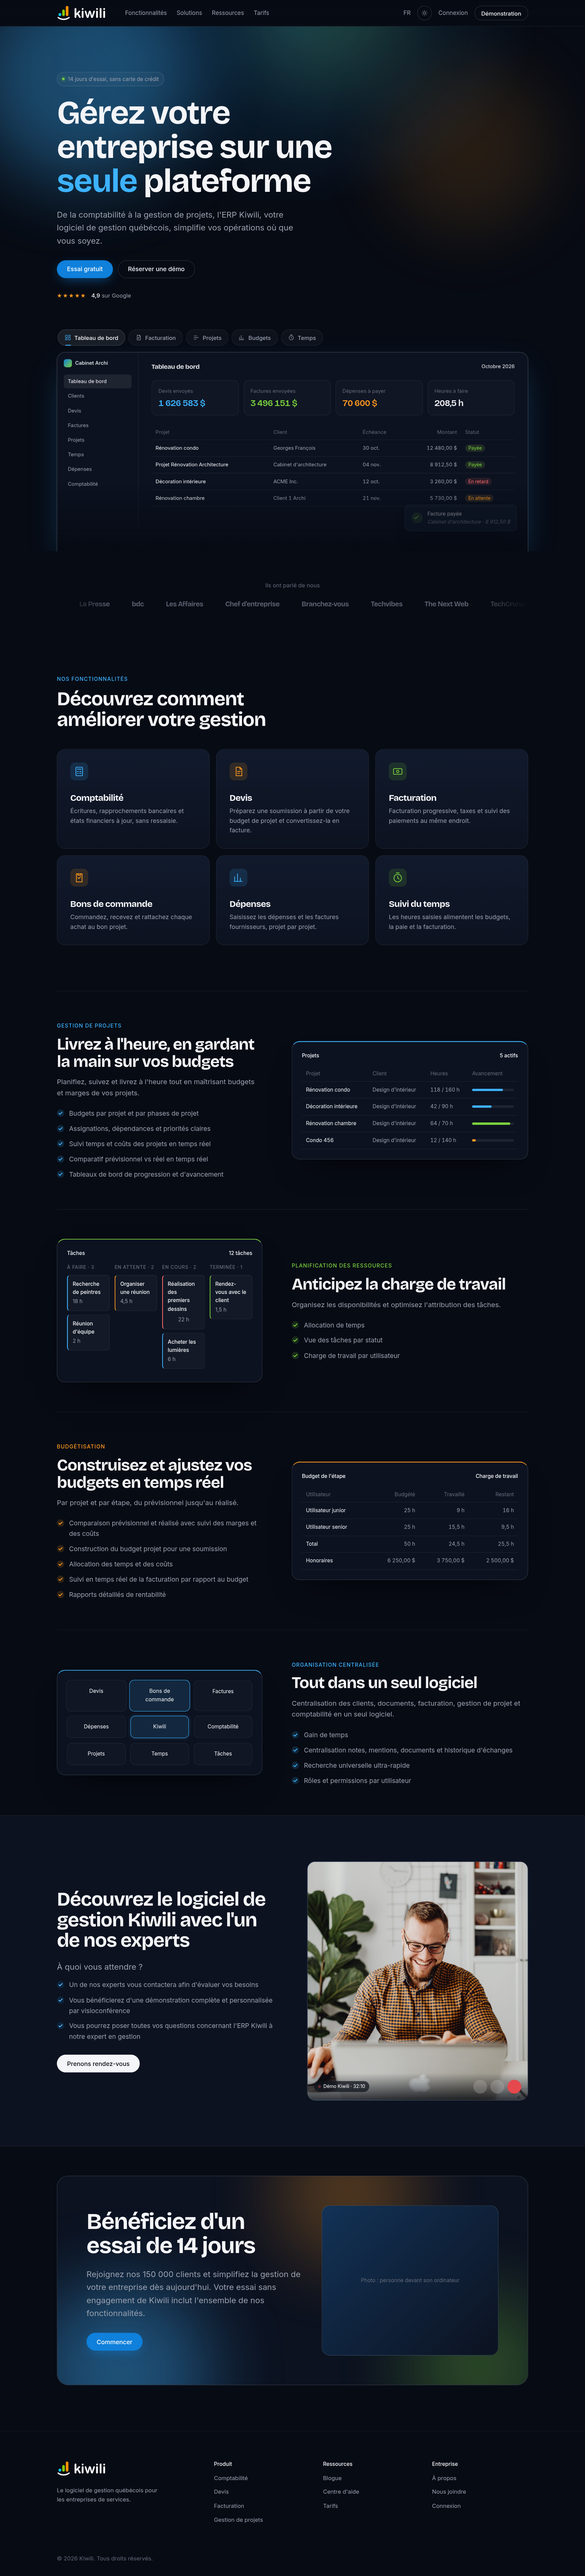
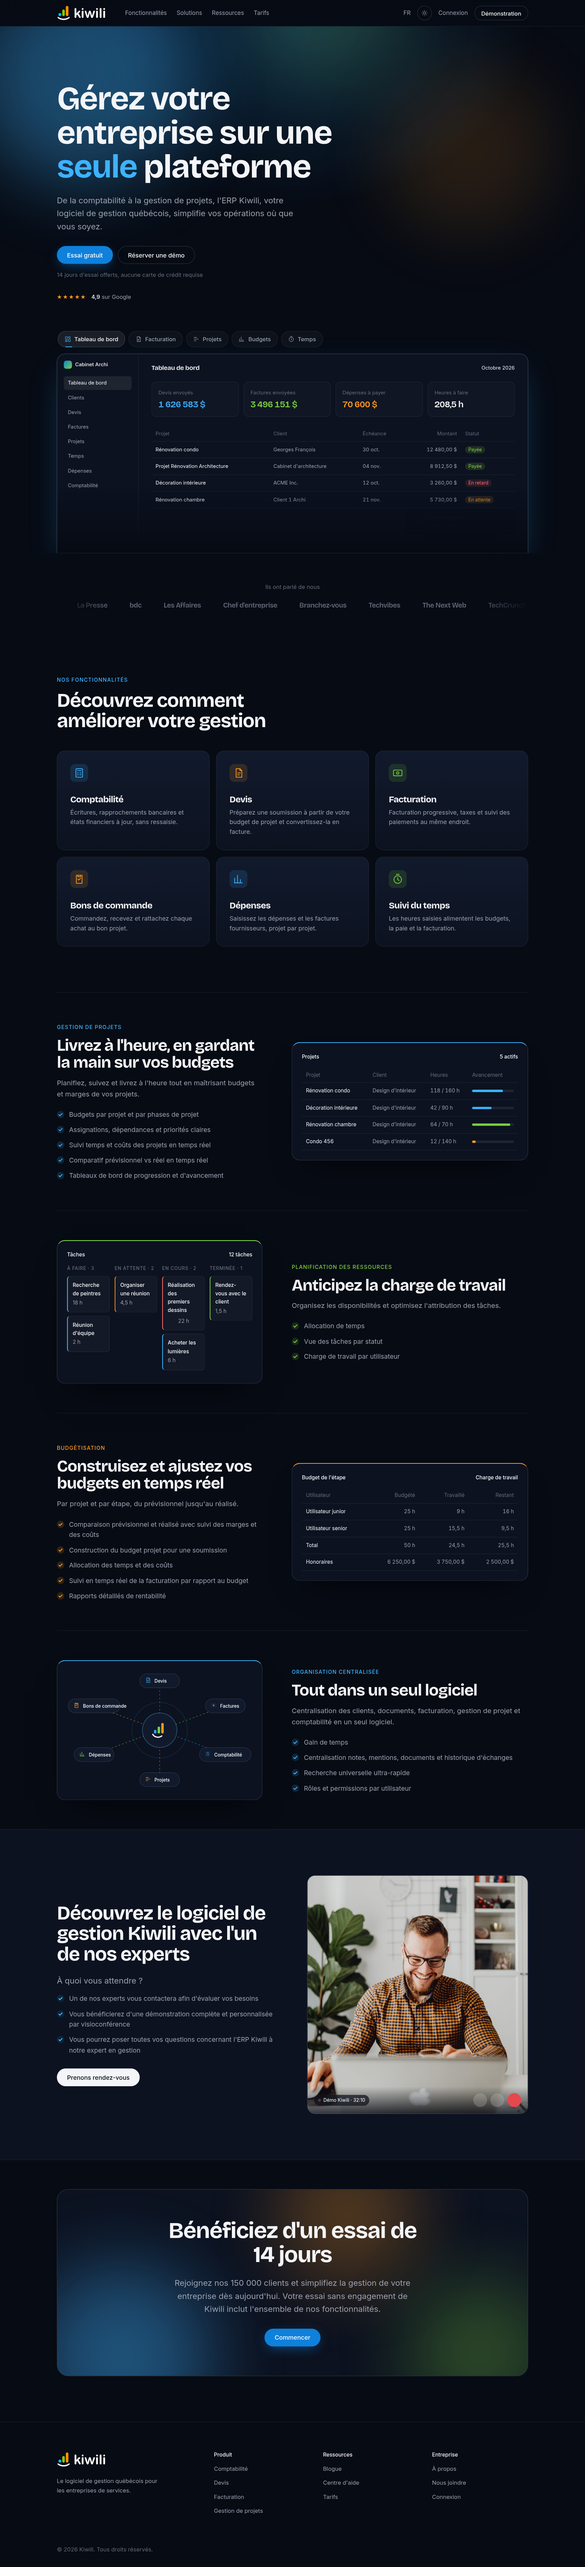
Remove hero pill and trial photo, redraw centralisation as connected diagram
Claude-Session: https://claude.ai/code/session_01VdQgcpu26zkJBaefp5NmKK

diff --git a/index.html b/index.html
@@ -23,10 +23,10 @@
 <main>
 <section class="hero"><div class="blobs" aria-hidden="true"><i class="b1"></i><i class="b2"></i><i class="b3"></i></div><div class="container">
   <div class="hero-copy rise">
-    <span class="chip"><i></i>14 jours d'essai, sans carte de crédit</span>
     <h1>Gérez votre entreprise sur une <em>seule</em> plateforme</h1>
     <p class="lead">De la comptabilité à la gestion de projets, l'ERP Kiwili, votre logiciel de gestion québécois, simplifie vos opérations où que vous soyez.</p>
     <div class="hero-cta"><a class="btn btn-accent" href="#essai">Essai gratuit</a><a class="btn btn-ghost" href="#demo">Réserver une démo</a></div>
+    <p class="hero-note">14 jours d'essai offerts, aucune carte de crédit requise</p>
     <div class="rating"><span class="stars" aria-hidden="true">★★★★★</span><span><b>4,9</b> sur Google</span></div>
   </div>
 
@@ -219,11 +219,11 @@
       <p class="lead">Centralisation des clients, documents, facturation, gestion de projet et comptabilité en un seul logiciel.</p>
       <ul class="checks"><li>Gain de temps</li><li>Centralisation notes, mentions, documents et historique d'échanges</li><li>Recherche universelle ultra-rapide</li><li>Rôles et permissions par utilisateur</li></ul>
     </div>
-    <div class="panel reveal"><div class="hub">
-      <div>Devis</div><div>Bons de commande</div><div>Factures</div>
-      <div>Dépenses</div><div class="core">Kiwili</div><div>Comptabilité</div>
-      <div>Projets</div><div>Temps</div><div>Tâches</div>
-    </div></div>
+    <div class="panel reveal hubpanel"><svg class="hubsvg" viewBox="0 0 520 340" role="img" aria-label="Devis, factures, comptabilité, projets, dépenses et bons de commande reliés au même logiciel Kiwili">
+<circle class="ring r1" cx="260" cy="170" r="46"/><circle class="ring r2" cx="260" cy="170" r="46"/>
+<path class="wire" style="--c:var(--c-blue);--d:0.0s" d="M260 36L260 170"/><path class="wire" style="--c:var(--c-green);--d:0.5s" d="M438 104L260 170"/><path class="wire" style="--c:var(--c-blue);--d:1.0s" d="M438 236L260 170"/><path class="wire" style="--c:var(--c-orange);--d:1.5s" d="M260 304L260 170"/><path class="wire" style="--c:var(--c-green);--d:2.0s" d="M82 236L260 170"/><path class="wire" style="--c:var(--c-orange);--d:2.5s" d="M82 104L260 170"/>
+<g class="core"><circle cx="260" cy="170" r="46"/><g transform="translate(238 147) scale(1.1)"><rect x="6" y="20" width="6" height="9" rx="3" fill="#2aa7ff"/><rect x="15" y="12" width="6" height="17" rx="3" fill="#7ad03c"/><rect x="24" y="3" width="6" height="26" rx="3" fill="#ff9a1f"/><path d="M3 31c4 8 16 9 22 4" fill="none" stroke="currentColor" stroke-width="3" stroke-linecap="round"/></g></g>
+<g class="node" style="--c:var(--c-blue);--i:0" transform="translate(206.0 17)"><rect width="108" height="38" rx="19"/><g class="ic" transform="translate(13 7)"><path d="M7 3h8l4 4v14H7z" transform="scale(.85)"/><path d="M15 3v4h4M10 12h6M10 16h4" transform="scale(.85)"/></g><text x="40" y="24">Devis</text></g><g class="node" style="--c:var(--c-green);--i:1" transform="translate(384.0 85)"><rect width="108" height="38" rx="19"/><g class="ic" transform="translate(13 7)"><rect x="3" y="6" width="18" height="12" rx="2" transform="scale(.85)"/><circle cx="12" cy="12" r="2.5" transform="scale(.85)"/></g><text x="40" y="24">Factures</text></g><g class="node" style="--c:var(--c-blue);--i:2" transform="translate(368.0 217)"><rect width="140" height="38" rx="19"/><g class="ic" transform="translate(13 7)"><rect x="5" y="3" width="14" height="18" rx="2" transform="scale(.85)"/><path d="M8 7h8M8 12h2m3 0h3M8 16h2m3 0h3" transform="scale(.85)"/></g><text x="40" y="24">Comptabilité</text></g><g class="node" style="--c:var(--c-orange);--i:3" transform="translate(206.0 285)"><rect width="108" height="38" rx="19"/><g class="ic" transform="translate(13 7)"><path d="M4 6h10M4 12h16M4 18h8" transform="scale(.85)"/></g><text x="40" y="24">Projets</text></g><g class="node" style="--c:var(--c-green);--i:4" transform="translate(28.0 217)"><rect width="108" height="38" rx="19"/><g class="ic" transform="translate(13 7)"><path d="M4 20V10m6 10V4m6 16v-7m4 7H3" transform="scale(.85)"/></g><text x="40" y="24">Dépenses</text></g><g class="node" style="--c:var(--c-orange);--i:5" transform="translate(12.0 85)"><rect width="140" height="38" rx="19"/><g class="ic" transform="translate(13 7)"><path d="M6 4h12v17H6z" transform="scale(.85)"/><path d="M9 4v3h6V4M9 12l2 2 4-4" transform="scale(.85)"/></g><text x="40" y="24">Bons de commande</text></g></svg></div>
   </div>
 
 </div></section>
@@ -243,7 +243,7 @@
   <h2>Bénéficiez d'un essai de 14 jours</h2>
   <p class="lead">Rejoignez nos 150 000 clients et simplifiez la gestion de votre entreprise dès aujourd'hui. Votre essai sans engagement de Kiwili inclut l'ensemble de nos fonctionnalités.</p>
   <a class="btn btn-accent" href="#">Commencer</a>
-</div><figure class="photo trial-photo"><img src="assets/photos/workspace.jpg" alt="Une gestionnaire devant son ordinateur" onerror="this.parentNode.classList.add('missing')"><span class="slot-label">Photo : personne devant son ordinateur</span></figure></div></div></section>
+</div></div></div></section>
 </main>
 
 <footer class="foot"><div class="container">

diff --git a/css/home.css b/css/home.css
@@ -312,3 +312,27 @@ tr.flash td{animation:flash 1.4s ease-out}
 .viewer .shot{height:490px}
 .mod{justify-content:flex-start;gap:var(--s-6)}
 .blobs .b2{opacity:.13}
+
+/* hero note replaces the pill */
+.hero-note{margin-top:var(--s-4)}
+
+/* trial: text only */
+.trial-card{grid-template-columns:1fr;justify-items:center;text-align:center}
+.trial-copy{max-width:640px}
+.trial .lead{margin-inline:auto}
+
+/* Centralisation diagram */
+.hubpanel{padding:var(--s-4)}
+.hubsvg{width:100%;height:auto;display:block;overflow:visible}
+.hubsvg text{font:500 13.5px var(--font-text);fill:var(--text)}
+.hubsvg .wire{stroke:color-mix(in srgb,var(--c) 55%,transparent);stroke-width:1.5;stroke-dasharray:3 7;stroke-linecap:round;fill:none;animation:flow 1.6s linear infinite;animation-delay:var(--d)}
+@keyframes flow{to{stroke-dashoffset:-20}}
+.hubsvg .node rect{fill:var(--bg-elevated);stroke:var(--line-strong);stroke-width:1;animation:nodeglow 7.2s ease-in-out infinite;animation-delay:calc(var(--i) * 1.2s)}
+.hubsvg .node .ic{fill:none;stroke:var(--c);stroke-width:1.7;stroke-linecap:round;stroke-linejoin:round}
+@keyframes nodeglow{0%,14%,100%{stroke:var(--line-strong);fill:var(--bg-elevated)}6%{stroke:var(--c);fill:color-mix(in srgb,var(--c) 14%,var(--bg-elevated))}}
+.hubsvg .core circle{fill:var(--bg-elevated);stroke:var(--line-strong);stroke-width:1}
+.hubsvg .core{color:var(--text)}
+.hubsvg .ring{fill:none;stroke:var(--c-blue);stroke-width:1;opacity:0;transform-box:fill-box;transform-origin:center;animation:ping 3.6s ease-out infinite}
+.hubsvg .ring.r2{animation-delay:1.8s}
+@keyframes ping{0%{opacity:.5;transform:scale(1)}100%{opacity:0;transform:scale(1.9)}}
+@media (prefers-reduced-motion:reduce){.hubsvg *{animation:none!important}}
